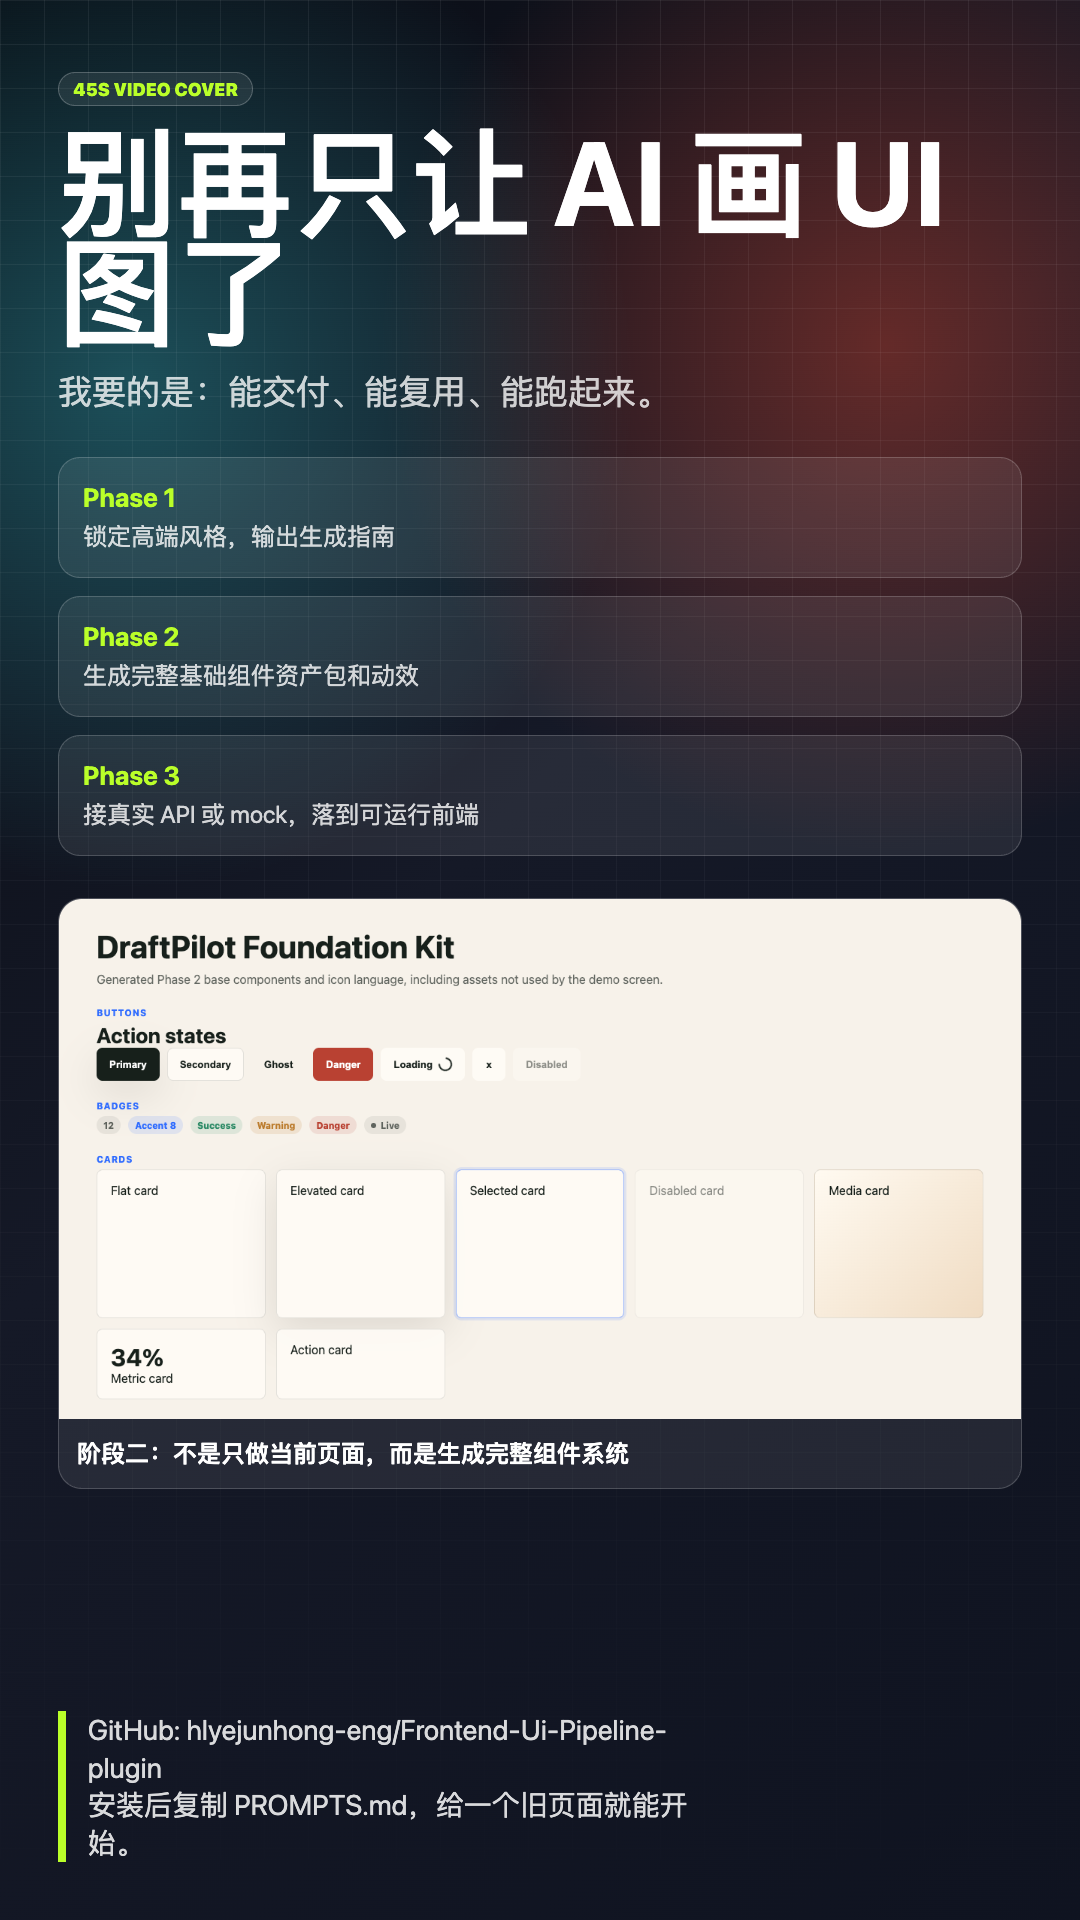
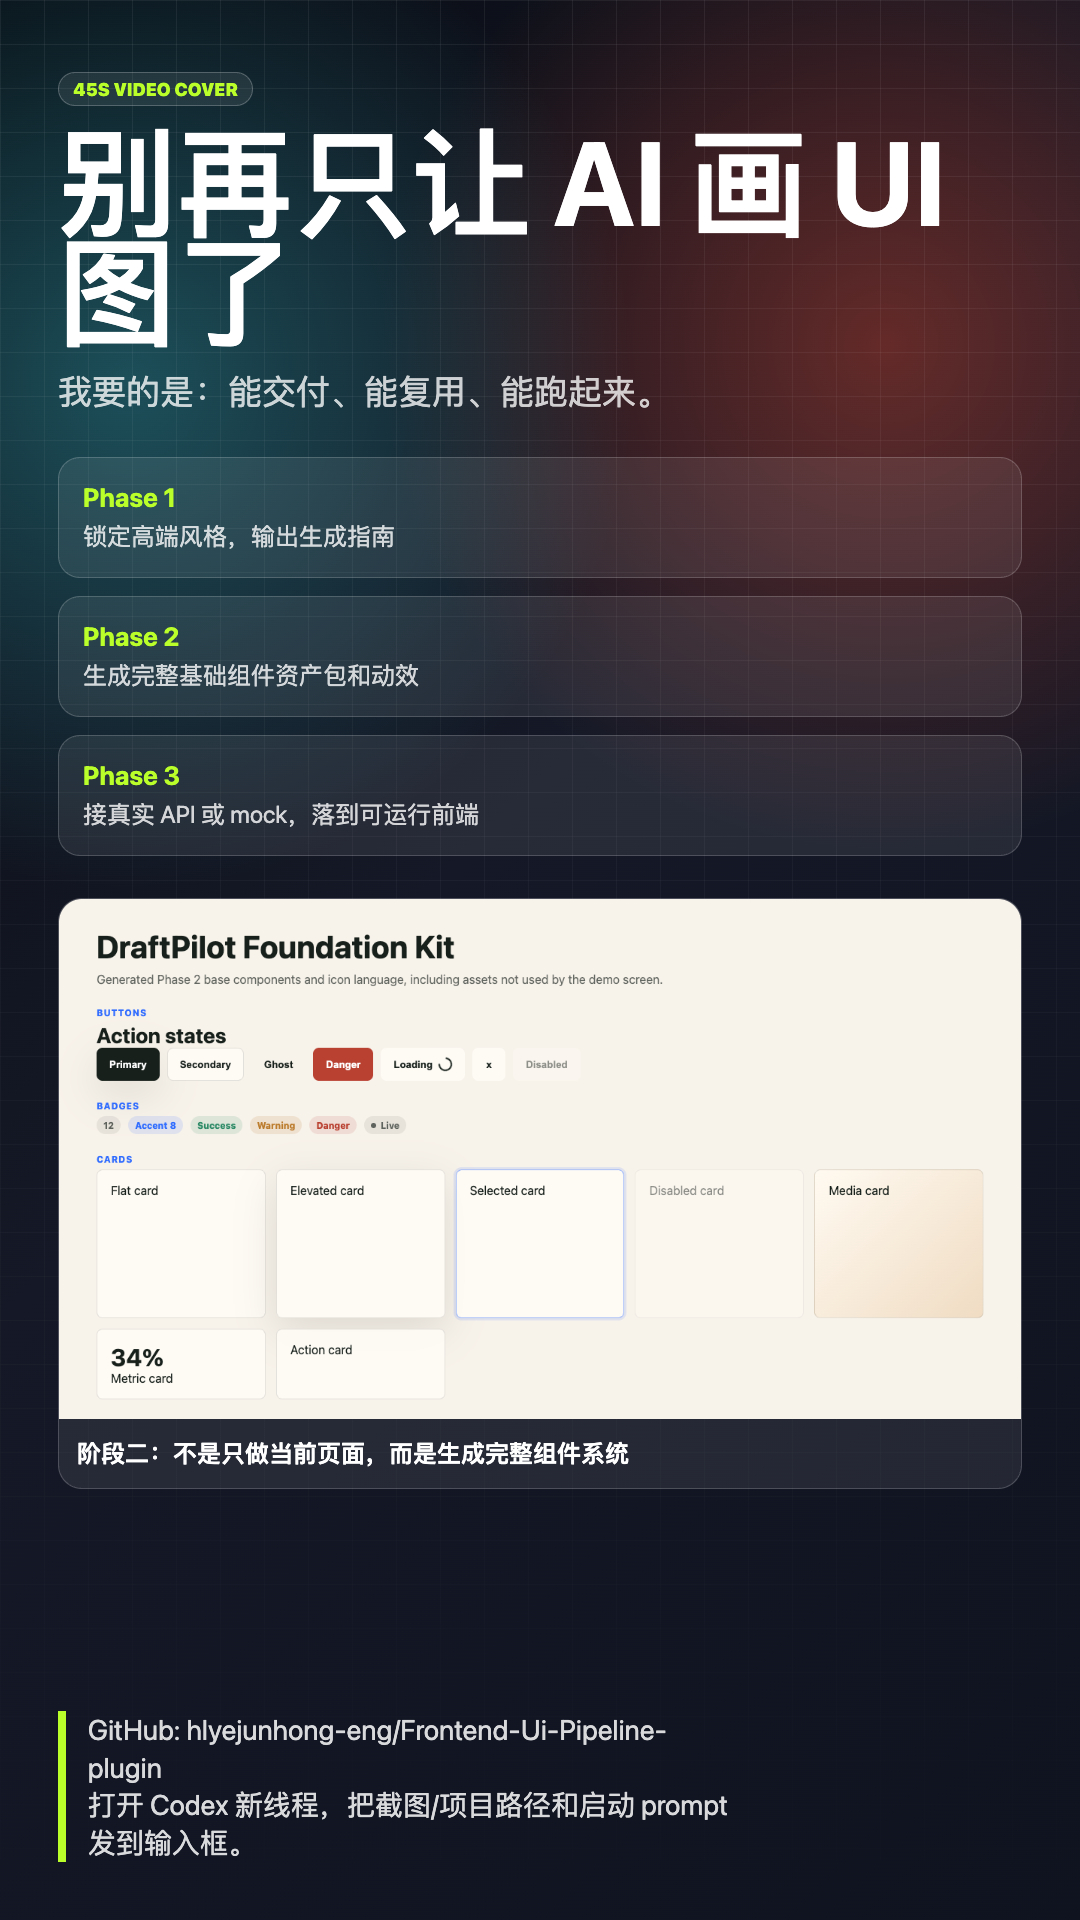
Clarify plugin install and start flow

Changed region(s): [[0.0611, 0.9375, 0.6722, 0.9688]]

diff --git a/launch-kit/social-assets/index.html b/launch-kit/social-assets/index.html
@@ -365,7 +365,7 @@
         </div>
         <div class="qr-block">
           GitHub: hlyejunhong-eng/Frontend-Ui-Pipeline-plugin<br />
-          安装后复制 PROMPTS.md，给一个旧页面就能开始。
+          打开 Codex 新线程，把截图/项目路径和启动 prompt 发到输入框。
         </div>
       </div>
     </section>

diff --git a/scripts/quick_check.py b/scripts/quick_check.py
@@ -162,6 +162,12 @@ def main() -> None:
         "高端定制",
         "自媒体",
         "DraftPilot",
+        "Codex 应用",
+        "新建线程",
+        "消息输入框",
+        "本地项目路径",
+        "localhost",
+        "Figma 链接",
     ):
         if required not in launch_text:
             fail(f"launch kit missing {required}")

diff --git a/launch-kit/install-to-use.zh-CN.md b/launch-kit/install-to-use.zh-CN.md
@@ -1,21 +1,187 @@
-# 从安装到实用
+# 从安装到真正开始用
 
 目标用户：不会画 UI、不会做美术资产、不熟前端实现，但想把已有页面做成高端定制体验的人。
 
-## 1. 安装插件
+## 先把一句话说清楚
+
+“安装后给一个旧页面就能开始”具体是：
+
+1. 安装的是 **Codex 插件**：Frontend UI Pipeline。
+2. 打开的是 **Codex 应用**：安装插件后，新建一个 Codex 线程。
+3. 发送的位置是 **Codex 新线程底部的消息输入框**。
+4. 发送的内容是：旧页面截图、本地项目路径、本地运行地址、Figma 链接，或者一段页面描述，再加上启动 prompt。
+5. Codex 会按插件里的三个 skills 继续追问、生成文档、生成资产、最后实现前端。
+
+## 1. 准备环境
+
+你需要先有：
+
+- Codex 应用或 Codex CLI，可以正常打开一个新线程。
+- Git，用来下载插件仓库。
+- Python 3，用来注册本地 marketplace。
+- 如果要让阶段三直接改真实项目，还需要把你的前端项目放在本机，并能在 Codex 里访问到项目路径。
+
+## 2. 下载插件
 
 ```bash
 mkdir -p ~/plugins
 git clone https://github.com/hlyejunhong-eng/Frontend-Ui-Pipeline-plugin.git ~/plugins/frontend-ui-pipeline
+```
+
+这一步的结果是：你的电脑里会出现一个插件目录：
+
+```text
+~/plugins/frontend-ui-pipeline
+```
+
+## 3. 注册插件到 Codex 的个人 marketplace
+
+```bash
 python3 ~/plugins/frontend-ui-pipeline/scripts/install_local_marketplace.py
+```
+
+这一步会把插件写入你的个人 marketplace，让 Codex 能看到它。
+
+## 4. 在 Codex 里添加插件
+
+```bash
 codex plugin add frontend-ui-pipeline@personal
 ```
 
-安装后新开一个 Codex 线程。
+完成后，关闭当前 Codex 线程，重新打开一个新线程。新线程才会加载刚安装的插件 skills。
 
-## 2. 准备输入
+## 5. 打开哪个应用
 
-最少只需要给其中一种：
+打开 **Codex 应用**。
+
+然后：
+
+1. 点击新建线程。
+2. 选择或确认当前工作目录。
+3. 在底部消息输入框粘贴你的旧页面材料和启动 prompt。
+
+如果你使用的是 Codex CLI，就在终端里的 Codex 对话输入区粘贴同样的内容。
+
+## 6. “旧页面”到底怎么给
+
+你可以任选一种方式：
+
+### 方式 A：给截图
+
+适合：没有代码，只有一个旧页面或竞品页面。
+
+你发送：
+
+```text
+Use the Frontend UI Pipeline on this old page screenshot.
+
+Input:
+- 我上传了一张旧页面截图。
+
+Goal:
+请把这个页面重做成高端定制 UI，先输出阶段一 brief 和预览图，再进入阶段二资产生产，最后实现可运行前端。如果没有真实项目，就先生成独立可运行 demo。
+```
+
+### 方式 B：给本地项目路径
+
+适合：你有真实前端项目，想让 Codex 直接改项目。
+
+你发送：
+
+```text
+Use the Frontend UI Pipeline on this real frontend route.
+
+Project path:
+/Users/<你的用户名>/path/to/your-frontend-project
+
+Target route or screen:
+/dashboard/onboarding
+
+Goal:
+请基于当前页面重新设计高端 UI，生成完整组件资产包和动效规则。阶段三请直接在这个项目里实现；如果接口不清楚，先用同结构 mock 数据。
+```
+
+### 方式 C：给本地运行地址
+
+适合：项目已经能跑起来，比如 `npm run dev` 后有 localhost。
+
+你发送：
+
+```text
+Use the Frontend UI Pipeline on this running local app.
+
+Local URL:
+http://localhost:3000/dashboard/onboarding
+
+Project path:
+/Users/<你的用户名>/path/to/your-frontend-project
+
+Goal:
+请先审视这个页面，再生成阶段一高端 UI brief 和预览图。阶段二生成完整资产包，阶段三热更替换到真实前端项目。
+```
+
+### 方式 D：给 Figma 链接
+
+适合：已有设计稿，但想变成更高级的可实现方案。
+
+你发送：
+
+```text
+Use the Frontend UI Pipeline on this Figma screen.
+
+Figma:
+<粘贴 Figma 链接>
+
+Goal:
+请基于这个页面重新生成高端定制方向、资产系统和真实前端实现方案。如果不能直接读取 Figma，请告诉我需要补充哪些截图或节点信息。
+```
+
+### 方式 E：只给页面描述
+
+适合：你还没有页面，但知道功能。
+
+你发送：
+
+```text
+Use the Frontend UI Pipeline to create a premium frontend flow.
+
+Page description:
+这是一个给小商家使用的 AI 文案助手 onboarding 页面。页面需要展示欢迎语、三个设置步骤、品牌语气、网站连接、创建第一条营销内容，以及右侧进度建议。
+
+Goal:
+请从阶段一开始，生成高端 UI brief、预览图、阶段二资产包，最后做一个可运行前端 demo。
+```
+
+## 7. 启动全流程的通用 prompt
+
+如果你只想复制一段万能版，就用这段：
+
+```text
+Use the Frontend UI Pipeline to redesign and implement this app flow.
+
+Input:
+- <粘贴旧页面截图、本地项目路径、localhost 地址、Figma 链接或页面描述>
+
+Target user:
+- <这个页面给谁用>
+
+Business goal:
+- <为什么要把它做高级>
+
+Implementation target:
+- 如果有真实前端项目，请直接改真实项目。
+- 如果没有真实项目，请生成独立可运行 demo。
+- 如果有真实 API 就接 API，没有就用同结构 mock 数据。
+
+Output requirements:
+- Phase 1: 高端 UI brief、桌面/移动预览图、像素级布局/文字/按钮/动效要求。
+- Phase 2: 完整基础组件资产包、命名资产、asset manifest、asset handoff，并在最终输出前让我审核资产是否通过。
+- Phase 3: 可运行前端、资产接入、接口或 mock、桌面/移动截图和验证命令。
+```
+
+## 8. 推荐给 Codex 的补充信息
+
+最少只需要其中一种：
 
 - 旧页面截图
 - 本地项目路径
@@ -30,19 +196,7 @@ codex plugin add frontend-ui-pipeline@personal
 - 有无品牌颜色或参考风格
 - 真实 API 是否已经存在
 
-## 3. 一句话启动全流程
-
-```text
-Use the Frontend UI Pipeline to redesign and implement this app flow.
-
-Target:
-- <旧页面截图、本地项目路径、Figma、路由或页面描述>
-
-Goal:
-我不懂 UI 美术和前端实现。请帮我把它做成高端定制 UI，生成完整基础组件资产包、动效规则，并最终落到真实可运行前端。如果没有真实 API，就用同结构 mock 数据先实现。
-```
-
-## 4. 三阶段会发生什么
+## 9. 三阶段会发生什么
 
 ### 阶段一：锁定高级风格
 
@@ -79,7 +233,7 @@ Goal:
 - 桌面/移动截图
 - 运行命令、验证结果和剩余风险
 
-## 5. 怎么判断真的成功
+## 10. 怎么判断真的成功
 
 成功不是“有一张好看的图”。成功应该至少有：
 

diff --git a/launch-kit/creator-posts.zh-CN.md b/launch-kit/creator-posts.zh-CN.md
@@ -27,6 +27,14 @@
 
 所以我做了 Frontend UI Pipeline。
 
+怎么开始：
+
+1. 先把插件下载到 `~/plugins/frontend-ui-pipeline`
+2. 用 `install_local_marketplace.py` 注册到 Codex 个人 marketplace
+3. 执行 `codex plugin add frontend-ui-pipeline@personal`
+4. 打开 Codex 应用，新建线程
+5. 在底部输入框粘贴旧页面截图、项目路径、localhost 地址、Figma 链接或页面描述，再粘贴启动 prompt
+
 它分三步：
 
 1. 阶段一：看旧页面，生成高端 UI brief 和预览图
@@ -47,20 +55,24 @@ GitHub 搜：Frontend-Ui-Pipeline-plugin
 
 左边是普通白底 onboarding，右边是高端定制 SaaS 工作台。
 
-10-20 秒：
+10-18 秒：
+
+怎么用很具体：下载插件，注册到 Codex，打开 Codex 新线程，把旧页面截图或项目路径发到输入框。
+
+18-28 秒：
 
 我做了一个 Codex 插件，分三阶段：
 先锁风格，再生成完整组件资产包，最后落到真实代码。
 
-20-32 秒：
+28-38 秒：
 
 重点是阶段二：按钮、数字角标、卡片、组合框、常用 icons、导航、通告、搜索、弹窗、过渡动画，全都生成。
 
-32-40 秒：
+38-44 秒：
 
 阶段三接真实 API；没有 API，就用同结构 mock 先跑起来。
 
-40-45 秒：
+44-50 秒：
 
 GitHub 已开源，想看案例和安装命令，评论区拿链接。
 
@@ -86,4 +98,10 @@ python3 ~/plugins/frontend-ui-pipeline/scripts/install_local_marketplace.py
 codex plugin add frontend-ui-pipeline@personal
 ```
 
-安装后新开 Codex 线程，复制仓库里的 `PROMPTS.md` 开始跑。
+启动方式：
+
+1. 打开 Codex 应用
+2. 新建线程
+3. 在底部消息输入框粘贴旧页面截图、项目路径、localhost 地址、Figma 链接或页面描述
+4. 再粘贴 `launch-kit/install-to-use.zh-CN.md` 里的万能 prompt
+5. 回车发送

diff --git a/launch-kit/README.md b/launch-kit/README.md
@@ -15,13 +15,15 @@
 
 不会画 UI、不会写前端，也能把一个普通页面变成高端定制 UI，并且不是停在概念图，而是走到组件资产、动效规则和真实可运行前端。
 
+更具体地说：用户安装的是 Codex 插件，打开的是 Codex 应用里的新线程，在底部消息输入框发送旧页面截图、项目路径、localhost 地址、Figma 链接或页面描述，再粘贴启动 prompt。
+
 ## 推荐发布顺序
 
 1. 发第一条：before/after 冲击图，标题打痛点。
 2. 发第二条：三阶段流程，强调不是普通 AI 生图。
 3. 发第三条：DraftPilot 案例，展示真实截图和组件库。
 4. 评论区置顶 GitHub 链接和安装命令。
-5. 邀请用户给一个旧页面截图，做下一条公开视频案例。
+5. 邀请用户在 Codex 新线程里粘贴一个旧页面截图或项目路径，做下一条公开视频案例。
 
 ## 图片怎么用
 

diff --git a/README.md b/README.md
@@ -45,6 +45,8 @@ codex plugin add frontend-ui-pipeline@personal
 
 Then start a new Codex thread so the plugin skills are loaded.
 
+In practical terms: install this repository as a Codex plugin, open the Codex app, create a new thread, then paste your old screen screenshot, local project path, localhost URL, Figma link, or page description into the thread message box with one of the prompts below.
+
 ## Update
 
 ```bash